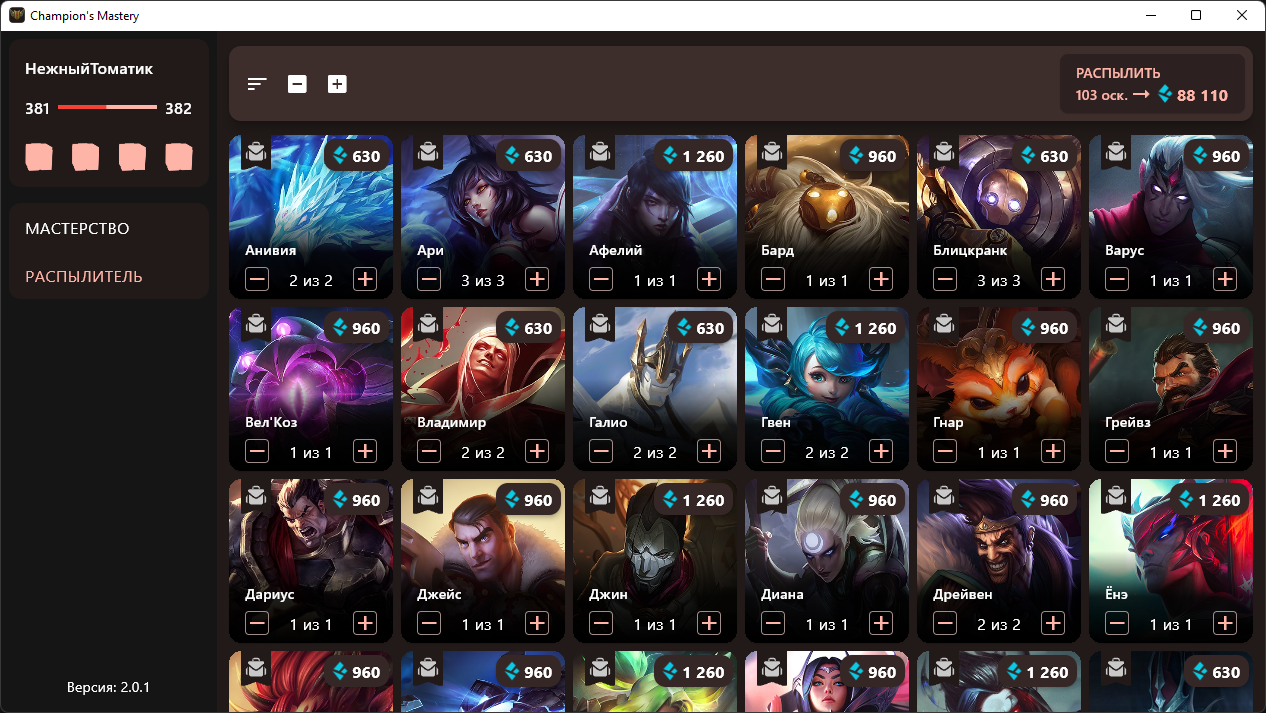
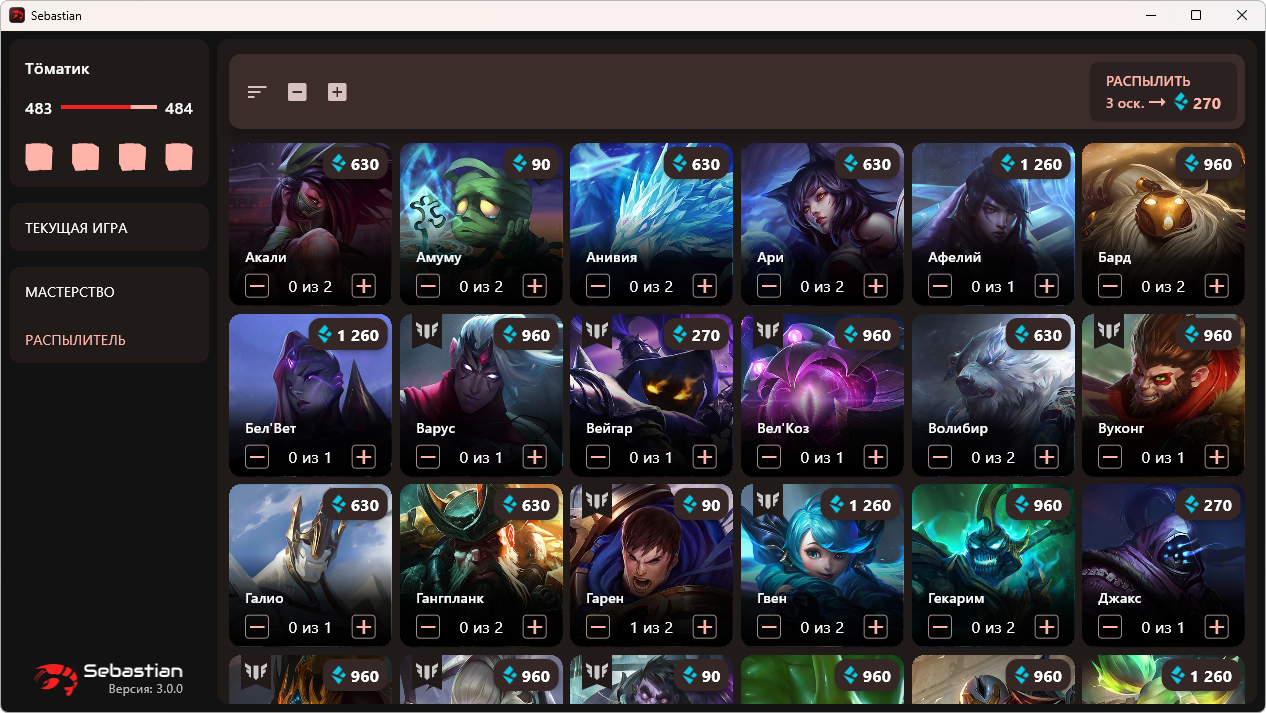
updated readme and screenshots

diff --git a/README.md b/README.md
@@ -9,22 +9,28 @@
 
 * Показывает небольшой профиль призывателя (уровень и доступные сундуки)
 * Предлагает сборки из [SenpAI](https://senpai.gg/) на выбранного чемпиона
-* Показывает информацию по всем чемпионам (мастерство, доступные сундуки и вечные)
+* Показывает информацию по твоим чемпионам (мастерство, доступные сундуки и вечные)
   * во время выбора в ARAM фильтрует таблицу до доступных в лобби чемпионов
 * Массово распылять осколки чемпионов
   * показывает метки на осколках, если они могут пригодиться (нет в коллекции или для повышения уровня мастерства)
 
 ## Как начать?
 
-1. Скачиваем последнюю версию [sebastian.zip](https://github.com/orteney/sebastian/releases/latest)
+### Windows
+1. Скачиваем последнюю версию [sebastian-windows.zip](https://github.com/orteney/sebastian/releases/latest)
 1. Распаковываем в любое место
 1. Запускаем `sebastian.exe`
 
+### MacOS
+1. Скачиваем последнюю версию [sebastian-macos.zip](https://github.com/orteney/sebastian/releases/latest)
+1. Распаковываем в любое место
+1. Запускаем `sebastian.app` (eсли ругается, то попробуй через `правую кнопку мыши -> открыть`)
+
 ## Скриншотики
 
+#### Предложенные сборки на выбранного чемпиона
+![Idle](docs/screenshots/current_game.png)
 #### Таблица с мастерством чемпионов
-![Idle](docs/screenshots/idle.png)
-#### Таблица с мастерством чемпионов во время выбора в АРАМ
-![ARAM Pick](docs/screenshots/aram.png)
+![Idle](docs/screenshots/mastery.png)
 #### Распылитель осколков
 ![Disenchater](docs/screenshots/disenchanter.png)
